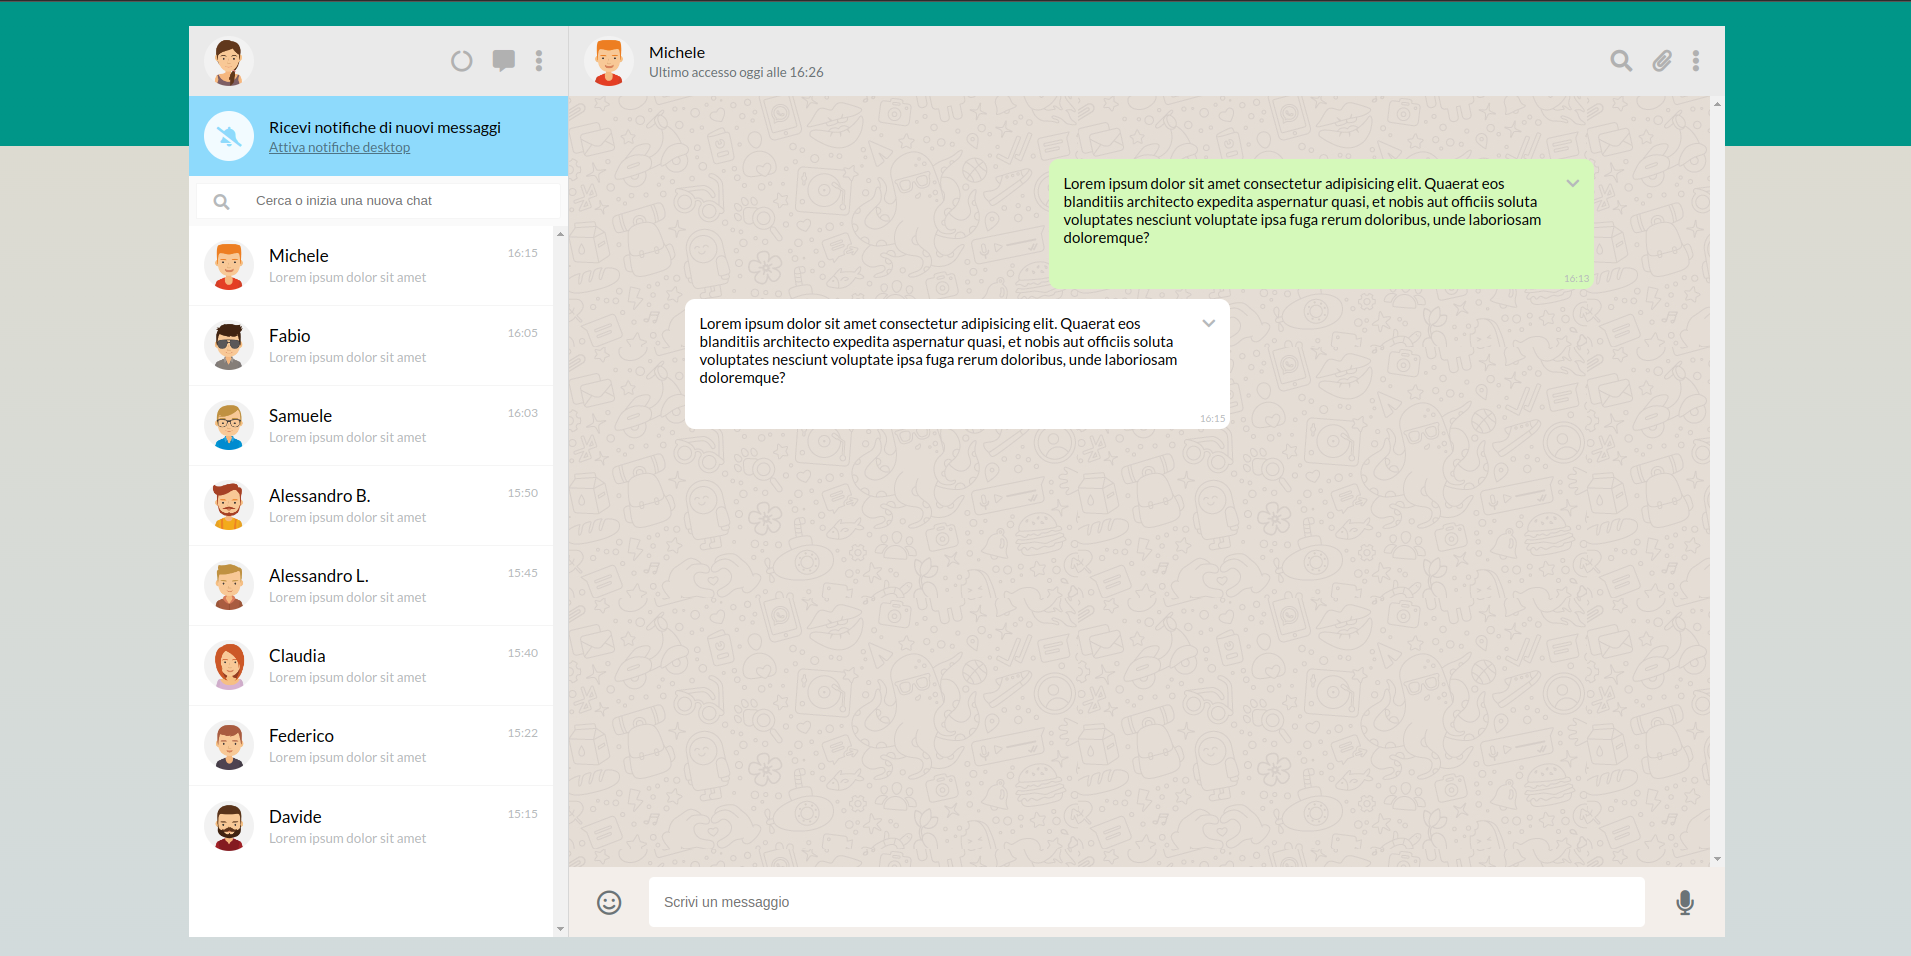
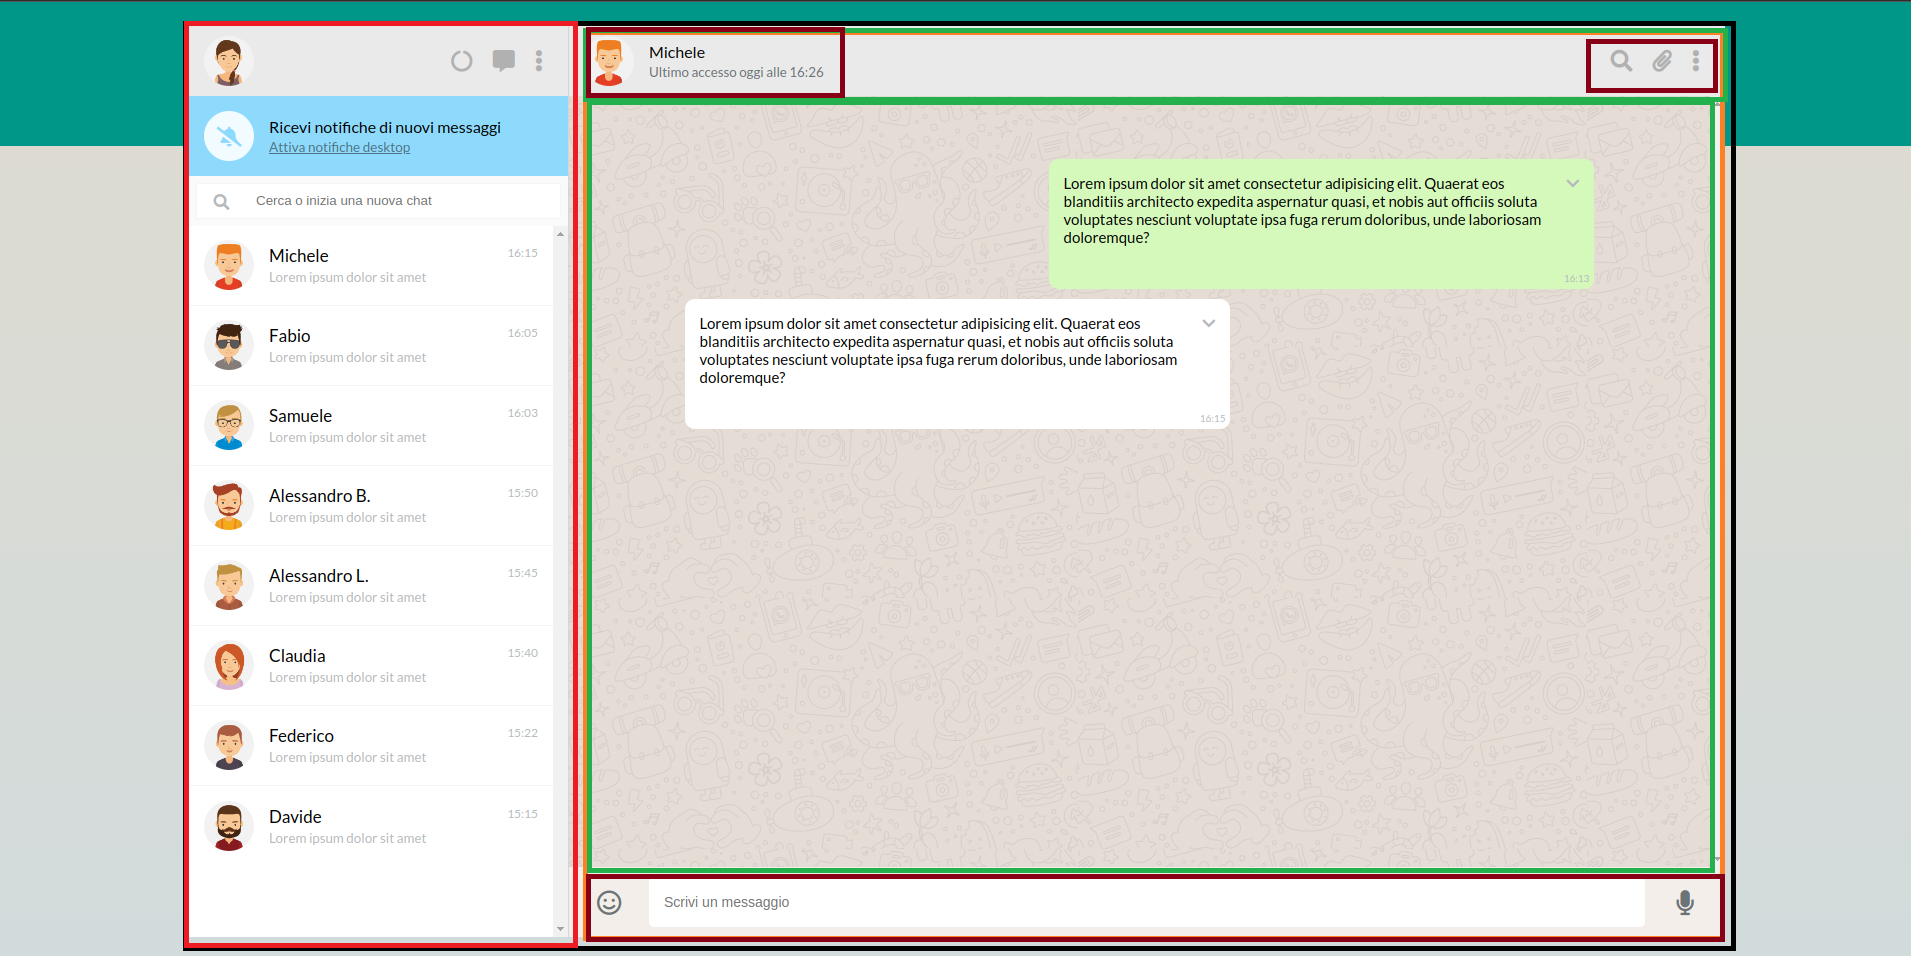
add:mainbody done

Changed region(s): [[0.0926, 0.0, 0.9262, 1.0]]

diff --git a/index.html b/index.html
@@ -35,27 +35,47 @@
 
 
 
-
+                <!-- PArte centrale dove ci sono i messaggi -->
                 <div class="mainbody flex">
+                    <!-- container dei messaggi -->
                     <div class="messagebox flex">
+                        <!-- riga con il messaggio inviato-->
                         <div class="row flex sent">
+                            <!-- quadrante del messaggio -->
                             <div class="message green flex">
                                 <div class="text">Lorem ipsum dolor sit amet consectetur adipisicing elit. Saepe unde, nostrum, rem adipisci porro eum harum architecto eveniet modi quae recusandae fugiat error? Tenetur error est, impedit ea aliquam quia.</div>
                                 <div class="chevronmenu"><i class="fa-solid fa-chevron-down"></i></div>
                                 
                             </div>
                         </div>
+                         
+                        <!-- riga con il messaggio ricevuto--> 
                         <div class="row flex received">
+                            <!-- quadrante del messaggio -->
                             <div class="message white flex">
                                 <div class="text">Lorem ipsum dolor sit amet consectetur adipisicing elit. Saepe unde, nostrum, rem adipisci porro eum harum architecto eveniet modi quae recusandae fugiat error? Tenetur error est, impedit ea aliquam quia.</div>
                                 <div class="chevronmenu"><i class="fa-solid fa-chevron-down"></i></div>
-
                             </div>
 
                         </div>
                     </div>
                 </div>
-                <div class="footer"></div>
+
+
+
+
+
+                <div class="footer flex">
+                    <div class="emoji flex">
+                        <i class="fa-regular fa-face-smile"></i>
+                    </div>
+                    <div class="textsection">
+                        <input type="text" class="text">
+                    </div>
+                    <div class="audio flex">
+                        <i class="fa-solid fa-microphone"></i>
+                    </div>
+                </div>
             </div>
         </div>
     </div>

diff --git a/css/style.css b/css/style.css
@@ -44,11 +44,12 @@
 
 /*COLONNA 2*/
 .container .column:last-child .header {
-    height: 8%;
+    height: 10%;
     width: 100%;
     /*debug*/
-    border: 1px solid rgb(56, 17, 228);
+    /* border: 1px solid rgb(56, 17, 228); */
     justify-content: space-between;
+    background-color: #EAEAEA;
 }
 
 .header .headright {
@@ -58,7 +59,12 @@
     align-items: center;
     gap: 10px;
     /*debug*/
-    border: 1px solid rgb(56, 17, 228);
+    /* border: 1px solid rgb(56, 17, 228); */
+}
+
+.header .headleft {
+    justify-content: center;
+    align-items: center; 
 }
 
 .header .headleft img {    
@@ -82,10 +88,12 @@
 
 /*Main Body*/
 .mainbody {
-    height: 85%;
+    height: 84%;
     width:auto;
    align-items: center;
    justify-content: center; 
+   background-image: url(../img/mine.jpg);
+
 }
 .messagebox {
     width: 90%;
@@ -93,7 +101,7 @@
     flex-direction: column;
     gap: 10px;
     /*debug*/
-    border: 1px solid rgb(56, 17, 228);
+    /* border: 1px solid rgb(56, 17, 228); */
 }
 .messagebox .row {
     height: fit-content;
@@ -126,6 +134,28 @@
 }
 .chevronmenu {
    width: 5%;
+}
+
+/* Footer */
+.footer {
+    width: 100%;
+    height: 6%;
+    background-color: #F3EEEA;
+}
+.footer .emoji, .audio {
+    width: 5%;
+    justify-content: center;
+    align-items: center;
+    /*debug*/
+    /* border: 1px solid black; */
+}
+
+.footer .textsection {
+    width: 90%;
+}
+.footer .textsection .text {
+    width: 100%;
+    height: 100%;
 }
 
 
